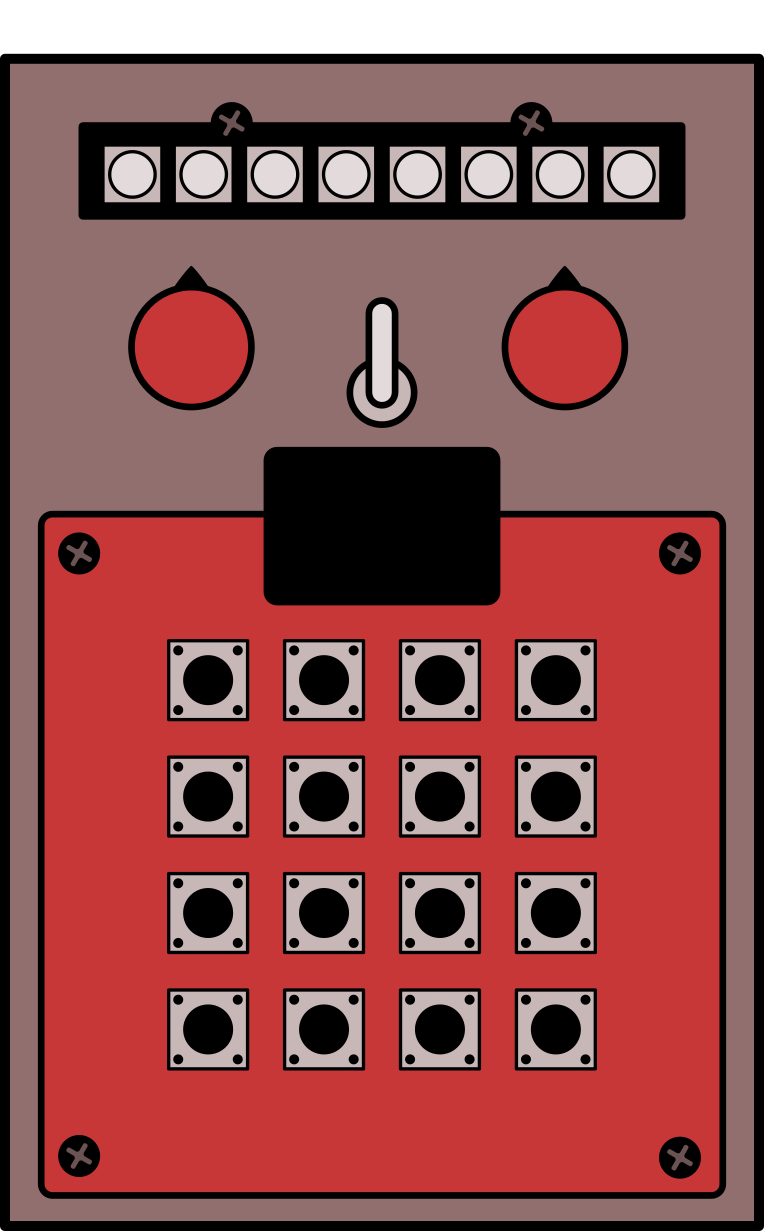
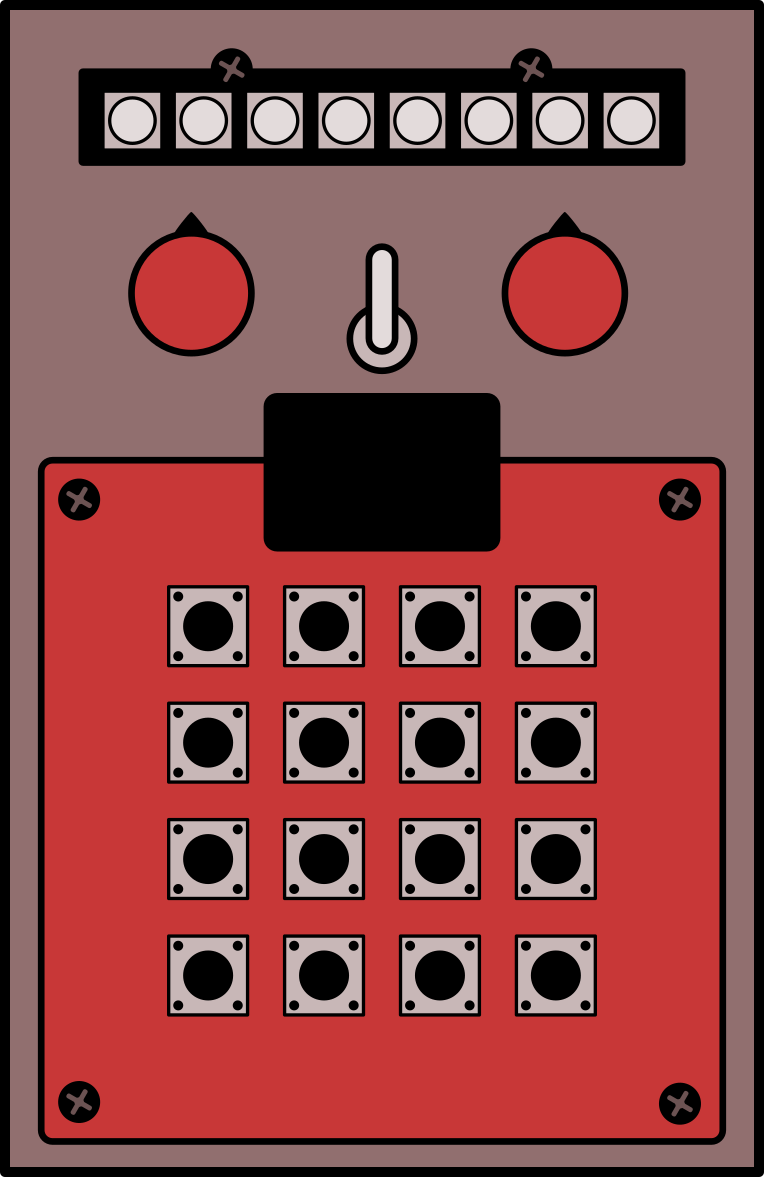
Updates polycule one-shot image.

diff --git a/README.md b/README.md
@@ -3,7 +3,7 @@ Arduino one-shot audio sampler &amp; mp3 player
 
 ## [One-shot audio sampler](https://kbsezginel.github.io/polycule/one-shot)
 
-<p align="center"><img src="assets/img/polycule-one-shot-front.png"></p>
+<p align="center"><img src="assets/img/polycule-one-shot-front.png" width="300"></p>
 
 
 ## PO-24 Cheat Sheet
